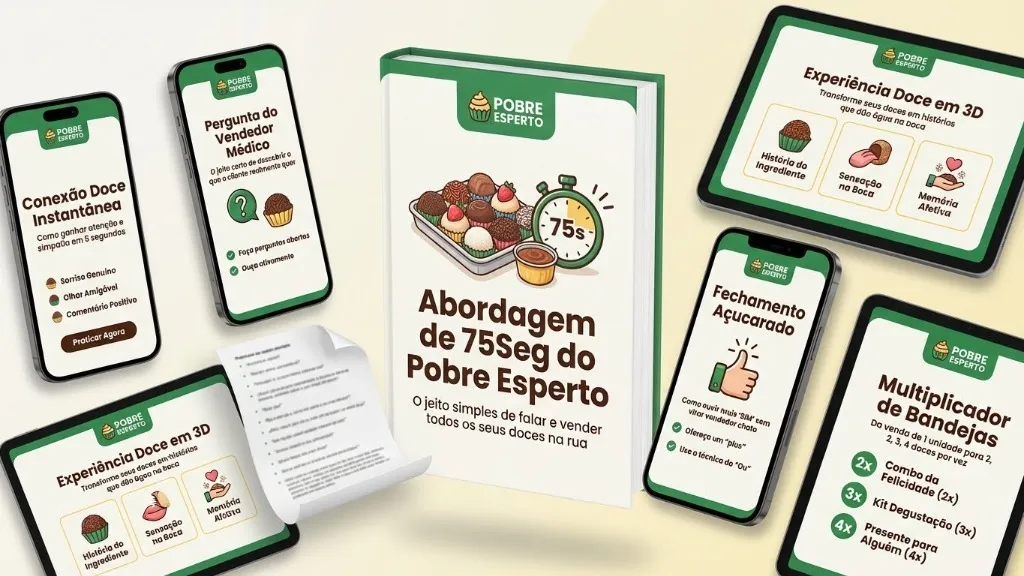
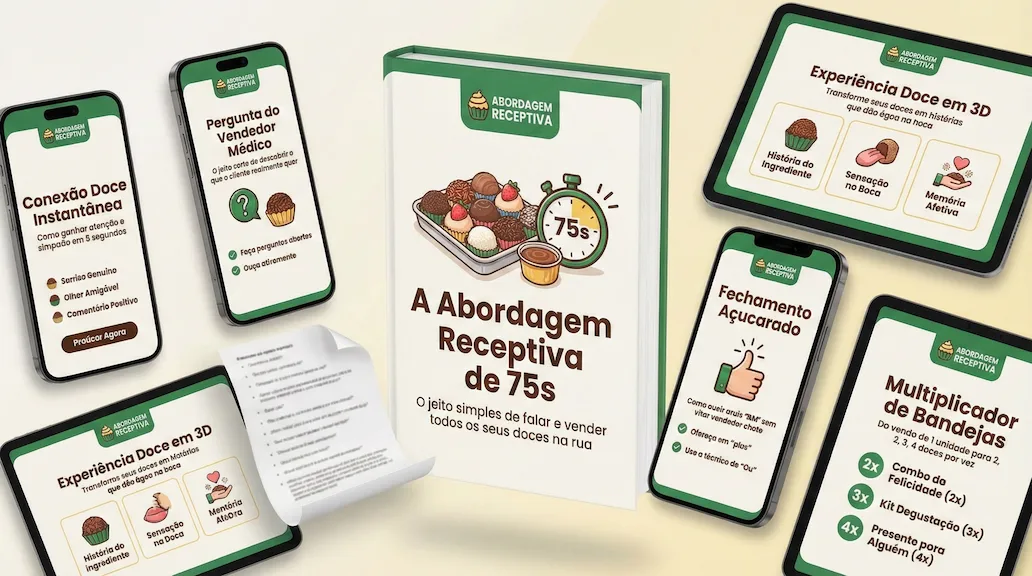
Otimizações página

diff --git a/index.html b/index.html
@@ -709,14 +709,14 @@
             <div class="card hero-card">
 
                 <h1 style="color: #4A2E1F; margin-bottom: 2rem; font-size: 2.15rem;">
-                    O <span class="text-green">Script De 75 Segundos</span> Que Elimina A Vergonha de Abordar E <span
-                        class="text-green">Torna Seu Doce Impossível de Ser Ignorado</span> (Sem Virar Vendedor Chato).
+                    A <span class="text-green">Abordagem de 75 Segundos</span> Para <span class="text-green">Tornar Seu
+                        Doce Impossível de Ser Ignorado</span>, Mesmo Que Hoje Você Trave Na Hora de Vender.
                 </h1>
 
                 <p class="hero-subheadline"
                     style="font-size: 1.15rem; margin-top: 0; margin-bottom: 2.5rem; font-style: italic;">
                     O Script Testado em 4 Anos de Rua Que Transforma a Rejeição do 'Não, Obrigado' em <span
-                        class="text-bold">'Me Dá Dois Desse Sabor'</span> em Menos de 75 Segundos
+                        class="text-bold">'Me Dá Dois Desse Sabor'</span> Sem Ser Insistente
                 </p>
                 <p class="hero-subheadline" style="font-size: 1.15rem; margin-top: -1.5rem; margin-bottom: 2.5rem;">
                     Restaure o orgulho que sua familia merece ver em você como provedor(a) de casa.
@@ -763,8 +763,8 @@
                     Se sim, <strong style="color: #3E2723;">o problema não é você ou incompetência.</strong>
                 </p>
                 <p class="text-center" style="font-weight: 500;">
-                    É falta de uma estratégia de abordagem de doces <strong style="color: #3E2723;">simples e segura que
-                        nunca te ensinaram.</strong>
+                    É falta de um roteiro <br><strong style="color: #3E2723;">seguro que te dá clareza e confiança do
+                        que falar nos PRIMEIROS SEGUNDOS.</strong>
                 </p>
             </div>
         </div>
@@ -783,7 +783,7 @@
                 <h2 style="color: #3E2723; text-transform: uppercase;">NÃO É TALENTO PRA VENDER. É TÉCNICA</h2>
                 <p style="color: #3E2723; margin-bottom: 0;">
                     Nos últimos 4 anos vendendo doces na rua, descobri que <strong style="color: #3E2723;">75 segundos
-                        de conversa certa</strong> transformam um <strong style="color: #D32F2F;">'não
+                        de abordagem certa</strong> transformam um <strong style="color: #D32F2F;">'não
                         automático'</strong> em <strong style="color: #3E2723;">'me dá dois desse sabor'.</strong>
                 </p>
             </div>
@@ -804,8 +804,10 @@
                     ABORDAGEM AÍ FUNCIONA?</h2>
 
                 <div style="font-size: 1.2rem; max-width: 800px; margin: 0 auto 2rem auto;">
-                    <p style="margin-bottom: 1.5rem;">Funciona assim: você chega como um <strong
-                            style="color: #3E2723;">conhecido puxando conversa rápida</strong>, não como vendedor
+                    <p style="margin-bottom: 1.5rem;">Funciona assim: você usa as <strong
+                            style="color: #3E2723; text-decoration: underline;">Frases da Conexão Instantânea</strong>
+                        que fazem você ser percebido como um <strong style="color: #3E2723;">conhecido puxando conversa
+                            rápida</strong>, não como vendedor
                         empurrando produto ou pedindo dinheiro.</p>
 
                     <p style="margin-bottom: 1.5rem;">Em <strong class="text-green">75 segundos</strong>, a pessoa baixa
@@ -903,8 +905,8 @@
             </div>
 
             <div class="text-center" style="margin-top: 3rem;">
-                <p style="font-size: 1.1rem;">Tudo dentro da Abordagem do Pobre Esperto de 75Segundos, pra você <span
-                        class="text-bold">adaptar pro seu doce e lucrar.</span></p>
+                <p style="font-size: 1.1rem;">Tudo dentro da <span class="text-bold">Abordagem Receptiva 10x</span> de
+                    75Segundos, pra você <span class="text-bold">adaptar pro seu doce e lucrar.</span></p>
 
             </div>
         </div>
@@ -1299,7 +1301,7 @@
 
                 <div
                     style="text-align: left; background-color: #fafafa; padding: 1.5rem; border-radius: 12px; border: 1px solid #eee; margin-bottom: 2rem;">
-                    <p style="font-size: 1.1rem; margin-bottom: 1rem;"><strong>Incluso: Abordagem do Pobre Esperto de 75
+                    <p style="font-size: 1.1rem; margin-bottom: 1rem;"><strong>Incluso: Abordagem Receptiva 10x de 75
                             Segundos</strong></p>
 
                     <ul class="check-list" style="font-size: 1rem;">
